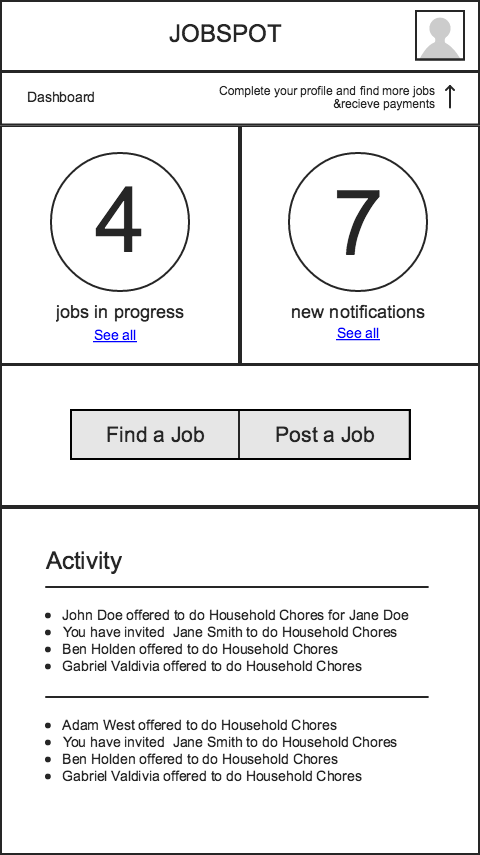
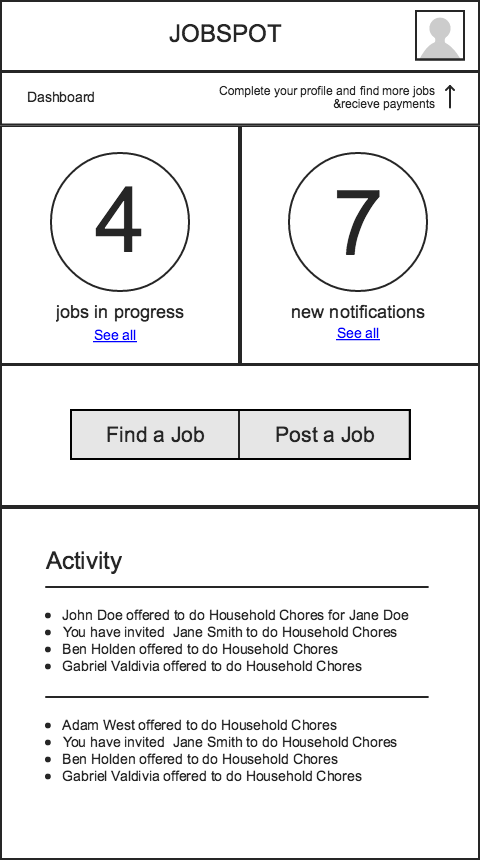
jobspot wireframe sizes fixed

diff --git a/README.md b/README.md
@@ -10,9 +10,9 @@ Hi this is the source for my website, [egegorgulu.com](www.egegorgulu.com). I al
 	- ~~Add missing graphics to the list~~
 - Responsiveness
 	- Mobile previewer
-	- Check Pinata & jobspot articles
 	- Home page text
 	- Footer links
+	- ~~Jobspot wireframes~~
 	- ~~Scroll lag?~~ vh on hero causes this
 	- ~~Disable double tap issue on works list~~
 	- ~~Double tap to link issue~~
